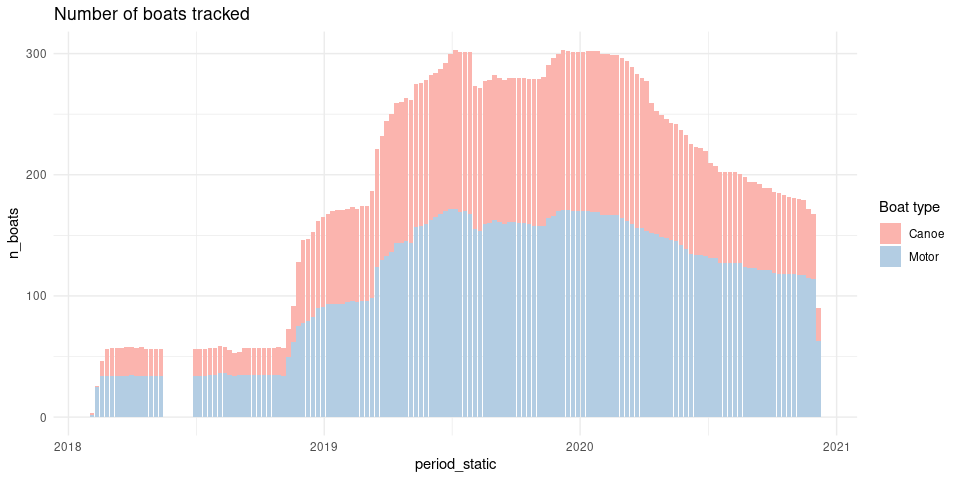
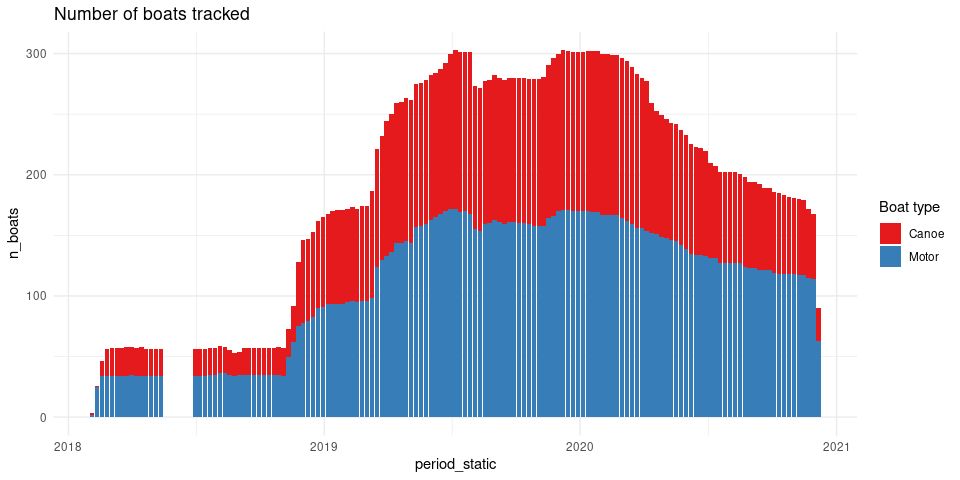
Add predictions for vessel activity

diff --git a/notebooks/vessel-activity.md b/notebooks/vessel-activity.md
@@ -11,9 +11,8 @@ coefficient modelling.
     device operation that could affect the activity estimates. Until
     these issues are resolved, activity estimates should be seen as
     provisional.
-  - Sampling is currently insufficient to reliable report activity
-    estimates at the municipality level, but is to-date enough to paint
-    a picture at the national level with certain confidence.
+  - In most locations, activity of motor boats appears to be higher than
+    Canoe boats.
   - Canoe boats are under-represented from tracking. About 40% of
     trackers devices have been installed in canoes, but they constitute
     about 70% of the fishing fleet. The disparity is larger in some
@@ -41,8 +40,6 @@ coefficient modelling.
   - Substantial improvements in the PDS detection algorithm or
     sufficient post-processing methods are needed before it can be used
     ready for fisher-level analytics.
-  - Generating confidence intervals will be crucial to better understand
-    the accuracy of the estimates.
 
 ## Plots
 
@@ -58,7 +55,7 @@ vessel_activity_bernoulli %>%
   ggplot(aes(y = boat_id_pds, colour = boat_code)) +
   geom_segment(aes(x = installation, xend = last_heard, yend = boat_id_pds)) +
   facet_grid(municipality_name ~ ., scales = "free", space = "free", margins = F) +
-  scale_color_brewer(palette = "Pastel1", labels = c("Canoe", "Motor"), name = "Boat type") +
+  scale_color_brewer(palette = "Set1", labels = c("Canoe", "Motor"), name = "Boat type") +
   theme_minimal() +
   theme(axis.text.y = element_blank(), 
         panel.grid.major.y = element_blank(), 
@@ -81,7 +78,7 @@ vessel_activity_bernoulli %>%
   ggplot(aes(x = period_static, y = n_boats, fill = boat_code)) +
   geom_col() +
   theme_minimal() +
-  scale_fill_brewer(palette = "Pastel1", labels = c("Canoe", "Motor"), name = "Boat type") +
+  scale_fill_brewer(palette = "Set1", labels = c("Canoe", "Motor"), name = "Boat type") +
   labs(title = "Number of boats tracked")
 ```
 
@@ -109,7 +106,7 @@ proportion_plot <- boats_location_data %>%
   geom_step() +
   scale_y_continuous(labels = scales::percent) +
   facet_wrap("municipality_name", ncol = 1, scales = "free") +
-  scale_colour_brewer(palette = "Pastel1", labels = c("Canoe", "Motor"), name = "Boat type") +
+  scale_colour_brewer(palette = "Set1", labels = c("Canoe", "Motor"), name = "Boat type") +
   theme_minimal() +
   theme(legend.position = "bottom") +
   labs(title = "Proportion of boats tracked")
@@ -118,7 +115,7 @@ count_plot <- boats_location_data %>%
   ggplot(aes(x = period_static, y = n_boats, fill = boat_code)) +
   geom_col() +
   facet_wrap("municipality_name", ncol = 1, scales = "free") +
-  scale_fill_brewer(palette = "Pastel1", labels = c("Canoe", "Motor"), name = "Boat type") +
+  scale_fill_brewer(palette = "Set1", labels = c("Canoe", "Motor"), name = "Boat type") +
   theme_minimal() +
   theme(legend.position = "bottom") +
   labs(title = "Number of boats tracked")
@@ -129,74 +126,130 @@ cowplot::plot_grid(count_plot, proportion_plot, ncol = 2)
 ![](vessel-activity_files/figure-gfm/operation-per-location%20-1.png)<!-- -->
 
 ``` r
-drake::loadd(vessel_activity_model)
+drake::loadd(vessel_activity_model_brms)
 
-extract_weekly_data <- function(x){
-  nd <- x@frame %>%
-    distinct(municipality_name, period_static) %>%
-    mutate(data_available = TRUE) %>%
-    complete(municipality_name, period_static = full_seq(period_static, period = 7), 
+monthly_predictions_overall <- function(x, y){
+  nd <- x$data %>%
+    distinct(period_static) %>%
+    mutate(data_available = TRUE, 
+           period_static = lubridate::as_date(period_static)) %>%
+    complete(period_static = seq(min(period_static), 
+                                                    max(period_static), "month"), 
              fill = list(data_available = FALSE)) %>%
-    mutate(period_seasonal = lubridate::week(period_static))
+    mutate(period_seasonal = lubridate::month(period_static), 
+           n_days = lubridate::days_in_month(period_seasonal),
+           boat_code = y,
+           prediction_id = as.character(1:n())) 
+  
+  x %>%
+    posterior_epred(nd, 
+                    re_formula = ~ (1 | period_static) +
+                      (1 | period_seasonal), 
+                    allow_new_levels = TRUE) %>% 
+    set_colnames(as.character(nd$prediction_id)) %>%
+    as.data.frame.table() %>%
+    dplyr::mutate(prediction_id = Var2) %>%
+    dplyr::rename(Estimate = Freq, sample = Var1) %>%
+    dplyr::inner_join(nd, by = "prediction_id") %>%
+    tibble::as_tibble() %>%
+    dplyr::select(-Var2)
 }
 
-predict_weekly_vac <- function(x, nd, out = "numeric"){
-  
-  y = predict(x, newdata = nd,
-          re.form = ~ (1 | municipality_name) + (1 | period_static) +
-            (1 | municipality_name : period_static) + (1 | period_seasonal),
-          allow.new.levels = T)
-  
-  if (out == "numeric") {
-    return(y)
-  }
-  
-  nd %>%
-    mutate(estimate = y)
-}
-
-vac_predic_data <- vessel_activity_model %>%
-  map(extract_weekly_data) 
-
-map2_dfr(vessel_activity_model, vac_predic_data, predict_weekly_vac, out = "df", .id = "boat_type") %>%
-  ggplot(aes(x = period_static, y = plogis(estimate))) +
-  geom_link2(aes(alpha = data_available, group = boat_type, 
-                 colour = boat_type)) +
-  scale_linetype_manual(values = c(2,1)) +
-  scale_alpha_manual(values = c(0.4, 1)) +
-  scale_colour_brewer(palette = "Set1", labels = c("Canoe", "Motor"), name = "Boat type") +
-  facet_wrap(~municipality_name) +
+imap_dfr(vessel_activity_model_brms, monthly_predictions_overall) %>%
+  ggplot(aes(x = period_static, y = Estimate, fill = boat_code, colour = boat_code)) + 
+  stat_lineribbon(aes(alpha = forcats::fct_rev(ordered(stat(.width)))), 
+                  .width = c(0.05, 0.66, 0.95)) +
+  facet_grid(cols = vars(boat_code)) +
+  scale_fill_brewer(palette = "Set1", aesthetics = c("colour", "fill"), 
+                    name = "Boat type") +
+  scale_alpha_manual(values = c(0.05, 0.33, 0.95), name = "Credible interval") +
   theme_minimal() +
-  labs(title = "Vessel activity coefficient in Timor", 
-       caption = "Ligter colour indicates that no sampling was performed during that period at that particular location")
+  theme(legend.position = "bottom") +
+  labs(title = "Estimated average number of trips per month - Overall", 
+       caption = "Based on 1000 Markov Chain Monte Carlo simulations of the Dynamic Vessel Activity Coefficient")
 ```
 
-![](vessel-activity_files/figure-gfm/model-predictions-1.png)<!-- -->
+![](vessel-activity_files/figure-gfm/model-predictions-overall-1.png)<!-- -->
 
 ``` r
-# predict_weekly <- function(x){
-#   predict_weekly_vac(x, extract_weekly_data(x))
-# }
-# 
-# system.time({
-#   a <- bootMer(vessel_activity_model[[1]],
-#              FUN = predict_weekly,
-#              seed = 123, nsim = 4, parallel = "multicore", ncpus = 4)
-# })
-# 
-# 
-# predict_data_temp <- vac_predic_data[[1]] %>%
-#   mutate(prediction = as.character(1:n()))
-#   
-# as_tibble(a) %>%
-#   mutate(sample = 1:n()) %>%
-#    pivot_longer(-sample, values_to = "estimate", names_to = "prediction") %>%
-#   right_join(predict_data_temp)%>%
-#   ggplot(aes(x = period_static, y = plogis(estimate))) +
-#   geom_link2(aes(alpha = data_available, group = sample)) +
-#   scale_linetype_manual(values = c(2,1)) +
-#   scale_alpha_manual(values = c(0.4, 1)) +
-#   scale_colour_brewer(palette = "Set1", labels = c("Canoe", "Motor"), name = "Boat type") +
-#   facet_wrap(~municipality_name) +
-#   theme_minimal()
+monthly_predictions_site <- function(x, y){
+  nd <- x$data %>%
+    distinct(municipality_name, period_static) %>%
+    mutate(data_available = TRUE, 
+           period_static = lubridate::as_date(period_static)) %>%
+    complete(municipality_name, period_static = seq(min(period_static), 
+                                                    max(period_static), "month"), 
+             fill = list(data_available = FALSE)) %>%
+    mutate(period_seasonal = lubridate::month(period_static), 
+           n_days = lubridate::days_in_month(period_seasonal),
+           boat_code = y,
+           prediction_id = as.character(1:n())) 
+  
+  x %>%
+    posterior_epred(nd, 
+                    re_formula = ~ (1 | municipality_name) + (1 | period_static) +
+                      (1 | municipality_name : period_static) + 
+                      (1 | period_seasonal), 
+                    allow_new_levels = TRUE) %>% 
+    set_colnames(as.character(nd$prediction_id)) %>%
+    as.data.frame.table() %>%
+    dplyr::mutate(prediction_id = Var2) %>%
+    dplyr::rename(Estimate = Freq, sample = Var1) %>%
+    dplyr::inner_join(nd, by = "prediction_id") %>%
+    tibble::as_tibble() %>%
+    dplyr::select(-Var2)
+}
+
+imap_dfr(vessel_activity_model_brms, monthly_predictions_site) %>%
+  ggplot(aes(x = period_static, y = Estimate, fill = boat_code, colour = boat_code)) + 
+  stat_lineribbon(aes(alpha = forcats::fct_rev(ordered(stat(.width)))), 
+                  .width = c(0.05, 0.66, 0.95)) +
+  facet_wrap(vars(municipality_name), ncol = 3) +
+  scale_fill_brewer(palette = "Set1", aesthetics = c("colour", "fill"), 
+                    name = "Boat type") +
+  scale_alpha_manual(values = c(0.05, 0.33, 0.95), name = "Credible interval") +
+  theme_minimal() +
+  theme(legend.position = "bottom") +
+  labs(title = "Estimated average number of trips per month - Per site", 
+       caption = "Based on 1000 Markov Chain Monte Carlo simulations")
 ```
+
+![](vessel-activity_files/figure-gfm/model-predictions-persite-1.png)<!-- -->
+
+``` r
+predictions_site <- function(x, y){
+  nd <- x$data %>%
+    distinct(municipality_name) %>%
+    mutate(data_available = TRUE) %>%
+    complete(municipality_name) %>%
+    mutate(n_days = 30,
+           boat_code = y,
+           prediction_id = as.character(1:n())) 
+  
+  x %>%
+    posterior_epred(nd, 
+                    re_formula = ~ (1 | municipality_name), 
+                    allow_new_levels = TRUE) %>% 
+    set_colnames(as.character(nd$prediction_id)) %>%
+    as.data.frame.table() %>%
+    dplyr::mutate(prediction_id = Var2) %>%
+    dplyr::rename(Estimate = Freq, sample = Var1) %>%
+    dplyr::inner_join(nd, by = "prediction_id") %>%
+    tibble::as_tibble() %>%
+    dplyr::select(-Var2)
+}
+
+imap_dfr(vessel_activity_model_brms, predictions_site) %>%
+  mutate(municipality_name = fct_reorder(municipality_name, Estimate)) %>%
+  ggplot(aes(y = municipality_name, x = Estimate, fill = boat_code, colour = boat_code)) + 
+  stat_pointinterval(.width = c(0.66, 0.95), position = position_dodge(0.4)) +
+  scale_fill_brewer(palette = "Set1", aesthetics = c("colour", "fill"), 
+                    name = "Boat type") +
+  scale_alpha_manual(values = c(0.05, 0.33, 0.95), name = "Credible interval") +
+  theme_minimal() +
+  theme(legend.position = "bottom") +
+  labs(title = "Estimated average number of trips per month - Per site", 
+       caption = "Based on 1000 Markov Chain Monte Carlo simulations")
+```
+
+![](vessel-activity_files/figure-gfm/unnamed-chunk-1-1.png)<!-- -->
